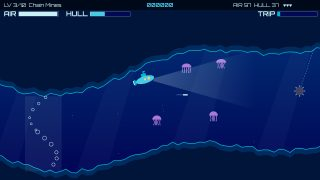
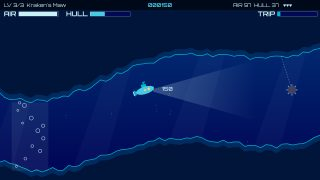
Give Deep Channel three levels and a surfacing ending (ji3)
Claude-Session: https://claude.ai/code/session_016R86i3evNakTHXcnyVkEfD

diff --git a/internal/generator/templates/themes/ocean/game.js b/internal/generator/templates/themes/ocean/game.js
@@ -6,7 +6,13 @@
  * and down, trim forward and back. Oxygen drains all the time and is topped
  * up by lingering in bubble columns; the cave and everything living in it
  * cost hull. Torpedoes clear the way ahead, depth charges deal with whatever
- * sits below. Reach the end of the trench — on level 10, kill the kraken.
+ * sits below. Reach the end of the trench — on level 3, kill the kraken.
+ *
+ * Three levels: Sunlit Shelf (jellyfish, a curtain to torpedo through,
+ * chain mines), Angler Hollow (anglers that lunge, enemy boats and
+ * currents) and Kraken's Maw (dark water, vents and falling stalactites on
+ * the way to the kraken). Killing it ends the campaign: the boat surfaces
+ * under fireworks while the bay glows below.
  *
  * Everything lives in world coordinates; s.cam is the left edge of the view.
  */
@@ -30,21 +36,13 @@
     // One entry per level. `mix` is what a slot of the trench may hold (a
     // feature listed twice is twice as likely); currents and dark are numbers
     // of zones; swarm adds jellyfish to each field; crates: N puts a repair
-    // crate in every Nth slot on top of its feature, because the tight late
-    // caves cost hull even when flown well. Speed and gap change in small
-    // steps: the late levels add hazards, so the cave itself stays flyable
-    // (level 8 is a little wider again, the vents need the room).
+    // crate in every Nth slot on top of its feature, because the tight last
+    // cave costs hull even when flown well. Speed and gap change in small
+    // steps: the later levels add hazards, so the cave itself stays flyable.
     var LEVELS = [
-        { len: 6400, speed: 105, gap: 300, slot: 560, mix: ['jelly', 'crate', 'rest', 'jelly'] },
-        { len: 7400, speed: 110, gap: 270, slot: 500, swarm: 2, mix: ['curtain', 'curtain', 'jelly', 'jelly', 'crate', 'rest'] },
-        { len: 8000, speed: 114, gap: 250, slot: 480, mix: ['mine', 'mine', 'mine', 'jelly', 'crate', 'rest'] },
-        { len: 8600, speed: 118, gap: 238, slot: 470, mix: ['angler', 'angler', 'angler', 'jelly', 'mine', 'crate', 'rest'] },
-        { len: 9200, speed: 122, gap: 228, slot: 460, currents: 6, mix: ['jelly', 'mine', 'angler', 'crate', 'rest', 'mine'] },
-        { len: 9600, speed: 126, gap: 220, slot: 450, currents: 1, mix: ['esub', 'esub', 'mine', 'jelly', 'angler', 'crate', 'rest'] },
-        { len: 10000, speed: 130, gap: 214, slot: 440, dark: 3, mix: ['angler', 'angler', 'jelly', 'jelly', 'mine', 'esub', 'crate'] },
-        { len: 10400, speed: 133, gap: 218, slot: 430, crates: 4, dark: 1, currents: 2, mix: ['vent', 'vent', 'vent', 'mine', 'angler', 'esub', 'jelly', 'crate'] },
-        { len: 10800, speed: 136, gap: 210, slot: 420, crates: 3, dark: 2, currents: 2, mix: ['stal', 'stal', 'stal', 'vent', 'mine', 'angler', 'jelly', 'esub', 'crate'] },
-        { len: 9600, speed: 138, gap: 212, slot: 420, crates: 3, dark: 2, currents: 2, boss: true, mix: ['stal', 'vent', 'mine', 'angler', 'jelly', 'esub', 'crate', 'mine'] }
+        { len: 6400, speed: 106, gap: 290, slot: 540, swarm: 1, mix: ['jelly', 'jelly', 'curtain', 'mine', 'mine', 'crate', 'rest'] },
+        { len: 8000, speed: 114, gap: 250, slot: 480, currents: 3, mix: ['angler', 'angler', 'angler', 'esub', 'mine', 'jelly', 'curtain', 'crate', 'rest'] },
+        { len: 8000, speed: 122, gap: 228, slot: 440, crates: 3, dark: 2, currents: 2, boss: true, mix: ['stal', 'stal', 'vent', 'vent', 'mine', 'angler', 'esub', 'jelly', 'crate'] }
     ];
     // Force of the three kinds of current: up-welling, down-draught, head-on.
     var FLOWS = [{ x: 0, y: -300 }, { x: 0, y: 300 }, { x: -330, y: 0 }];
@@ -1105,6 +1103,59 @@
         drawPhoneWarnings(s, ctx);
     }
 
+    // ------------------------------------------------------------------
+    // The ending: surfacing into the night
+    // ------------------------------------------------------------------
+
+    // The sea surface rolls across the lower part of the picture with the
+    // boat bobbing on it, and bioluminescent sparks rise from below and
+    // burst into small rings as they reach the top. Pure functions of e.t.
+    function drawSea(ctx, t) {
+        var y0 = 380;
+        ctx.fillStyle = 'rgba(2,62,138,0.85)';
+        ctx.beginPath();
+        ctx.moveTo(0, G.H);
+        for (var x = 0; x <= G.W; x += 40) ctx.lineTo(x, y0 + Math.sin(x / 70 + t * 2) * 6);
+        ctx.lineTo(G.W, G.H);
+        ctx.fill();
+        ctx.strokeStyle = C.foam; ctx.lineWidth = 2;
+        ctx.beginPath();
+        for (x = 0; x <= G.W; x += 40) ctx[x ? 'lineTo' : 'moveTo'](x, y0 + Math.sin(x / 70 + t * 2) * 6);
+        ctx.stroke();
+    }
+
+    function drawSurfaced(ctx, t) {
+        var x = 150, y = 372 + Math.sin(t * 2.2) * 4;
+        ctx.save();
+        ctx.translate(x, y); ctx.rotate(Math.sin(t * 1.6) * 0.05); ctx.scale(2, 2);
+        ctx.fillStyle = C.teal;
+        ctx.fillRect(-8, -19, 15, 11); ctx.fillRect(-1, -26, 3, 8); ctx.fillRect(-1, -26, 8, 3);
+        ctx.fillStyle = C.aqua;
+        ctx.beginPath(); ctx.ellipse(0, 0, 28, 11, 0, Math.PI, TAU); ctx.fill();
+        ctx.fillStyle = C.amber; disc(ctx, 12, -4, 3);
+        ctx.restore();
+    }
+
+    function drawGlowSparks(ctx, t) {
+        for (var i = 0; i < 26; i++) {
+            var f = (t * 0.35 + i * 0.137) % 1, x = (i * 173) % G.W, y = G.H - f * 170;
+            ctx.globalAlpha = 0.9 * (1 - f * 0.6);
+            ctx.fillStyle = i % 3 ? C.aqua : C.jelly;
+            disc(ctx, x + Math.sin(t * 2 + i) * 8, y, 3);
+            if (f > 0.85) {
+                ctx.strokeStyle = ctx.fillStyle; ctx.lineWidth = 1.5;
+                ctx.beginPath(); ctx.arc(x, 380, (f - 0.85) * 160, 0, TAU); ctx.stroke();
+            }
+        }
+        ctx.globalAlpha = 1;
+    }
+
+    function drawEnding(e, ctx) {
+        drawSea(ctx, e.t);
+        drawGlowSparks(ctx, e.t);
+        drawSurfaced(ctx, e.t);
+    }
+
     function hud(s) {
         return 'AIR ' + Math.ceil(s.o2) + '  HULL ' + Math.max(0, Math.ceil(s.hull));
     }
@@ -1118,8 +1169,7 @@
             'Linger in bubble columns for air · blow up crates to repair the hull',
             'Kraken: a hit arm recoils — shoot the eye, dash for its air'
         ],
-        levelNames: ['Sunlit Shelf', 'Jelly Bloom', 'Chain Mines', 'Angler Hollow', 'Rip Current',
-            'Wolf Pack', 'The Blackout', 'Vent Garden', 'Falling Teeth', 'Kraken\'s Maw'],
+        levelNames: ['Sunlit Shelf', 'Angler Hollow', 'Kraken\'s Maw'],
         colors: { bg: C.navy, fg: C.foam, accent: C.aqua, dim: '#7fb6cf' },
         lives: 3,
         // Slow and floating: long held lydian notes over a sparse pulse, with
@@ -1134,6 +1184,12 @@
             arp: '0.2.1.3.2.1.',
             drums: { k: 'x...............', h: '....x.......x.x.' },
             leadWave: 'sine', bassWave: 'sine', arpWave: 'triangle', leadOct: 2
+        },
+        ending: {
+            title: 'SURFACED',
+            text: 'The kraken sinks into the deep. Fresh air at last.',
+            colors: [C.aqua, C.foam, C.jelly, C.amber],
+            draw: drawEnding
         },
         init: init, update: update, draw: draw, hud: hud,
         // Everything is on the pad and all six buttons are used: the 8-way

diff --git a/docs/games.md b/docs/games.md
@@ -611,11 +611,16 @@ fireworks. Loud square-wave rock riff.
 ### ocean — Deep Channel (submarine cave scroller)
 The trench scrolls right to left. The sub has buoyancy and inertia: `↑ ↓`
 ballast, `← →` trim speed. `SPACE` fires torpedoes forward, `X` drops depth
-charges. Oxygen drains — collect bubble columns. Touching the cave or a
-creature costs hull. Reach the end of the trench. Levels: narrower caves,
-jellyfish fields, mines on chains, anglerfish that lunge, enemy subs, dark
-zones lit only by the headlight, currents, a kraken boss at level 10.
-Sonar pings, muffled noise, slow lydian music.
+charges. Oxygen drains — linger in bubble columns. Touching the cave or a
+creature costs hull; crates repair it. Reach the end of the trench. Levels:
+1 *Sunlit Shelf* — a wide cave with jellyfish, a jellyfish curtain that has
+to be torpedoed through, and chain mines; 2 *Angler Hollow* — a narrower
+cave with anglerfish that lunge, enemy subs and currents; 3 *Kraken's Maw* —
+the tightest cave, dark zones lit only by the headlight, vents, falling
+stalactites, and the kraken at the end (shoot an arm to make it recoil, then
+the eye; its air column is inside the arms' reach). Ending: *SURFACED* — the
+boat bobbing on the night sea while bioluminescent sparks rise and burst
+under fireworks. Sonar pings, muffled noise, slow lydian music.
 
 ### pacmaze — Neon Maze (maze chase)
 Grid maze, eat every pellet. Four ghosts with different behaviour (chaser,
